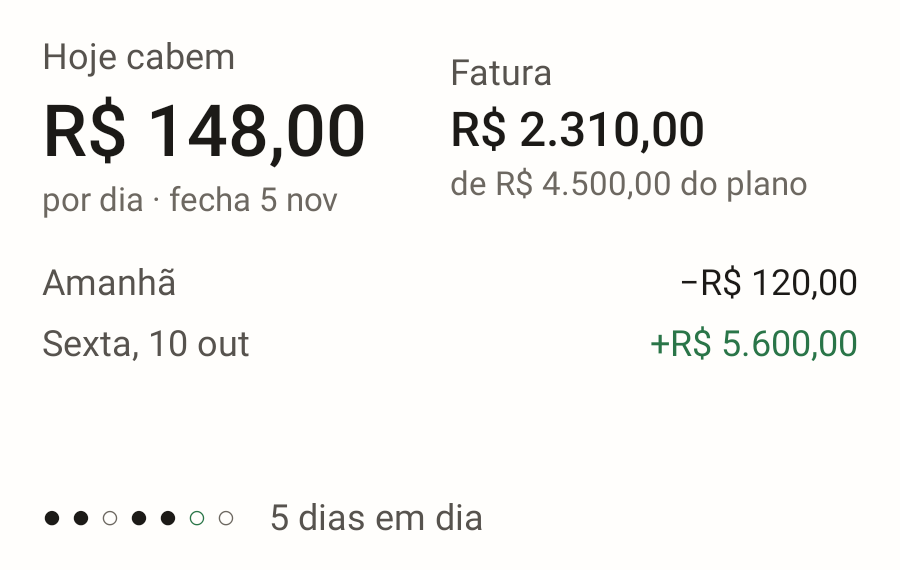
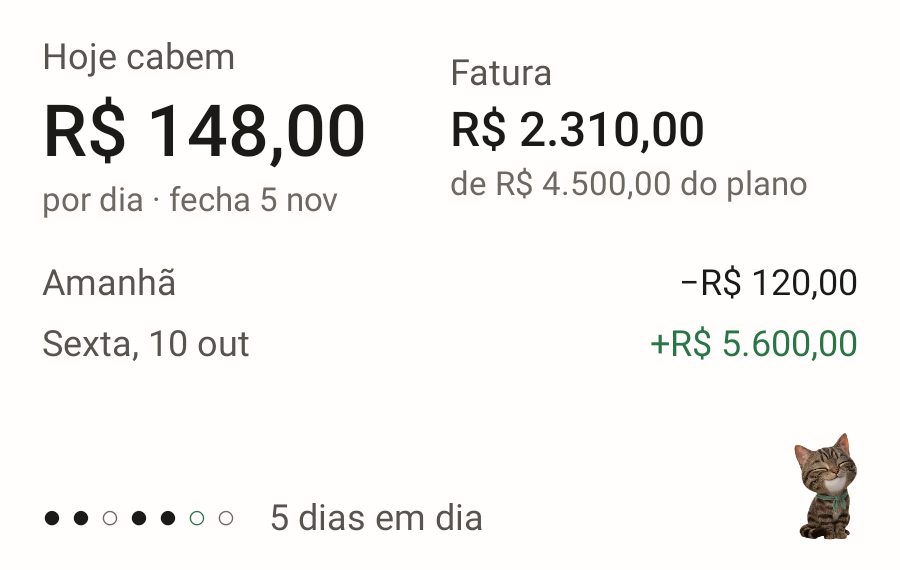
Põe o Neko no widget grande do Android, com a pose que acompanha o dia na planilha
No widget alto, ao lado da semana e da sequência, o Neko fica sentado enquanto o dia está em aberto
e satisfeito quando hoje já foi lançado; sem login, dorme. É o mesmo gesto da linha da sequência em
Hoje, levado para a tela inicial, onde o hábito é lembrado sem abrir o app. Android 0.26.0.

Claude-Session: https://claude.ai/code/session_01SwzAqfvDsayEzGoVq3fRTr

Changed region(s): [[0.8711, 0.7456, 0.9644, 0.9544]]

diff --git a/apps/android/app/src/main/kotlin/dev/johnlaff/neko/widget/TodayWidget.kt b/apps/android/app/src/main/kotlin/dev/johnlaff/neko/widget/TodayWidget.kt
@@ -7,6 +7,8 @@ import androidx.compose.ui.unit.dp
 import androidx.compose.ui.unit.sp
 import androidx.glance.GlanceId
 import androidx.glance.GlanceModifier
+import androidx.glance.Image
+import androidx.glance.ImageProvider
 import androidx.glance.action.actionStartActivity
 import androidx.glance.action.clickable
 import androidx.glance.appwidget.GlanceAppWidget
@@ -37,6 +39,7 @@ import dev.johnlaff.neko.data.TodayView
 import dev.johnlaff.neko.ui.DarkLedger
 import dev.johnlaff.neko.ui.Format
 import dev.johnlaff.neko.ui.LightLedger
+import dev.johnlaff.neko.ui.Pose
 
 /** One upcoming day on the tall widget: "Amanhã", "−R$ 1.900,00". */
 data class WidgetDay(val label: String, val net: String, val income: Boolean)
@@ -55,6 +58,8 @@ data class WidgetText(
     /** "12 dias em dia" and this week as seven marks, for the tall widget; null without a streak. */
     val streak: String? = null,
     val week: List<String> = emptyList(),
+    /** Neko on the tall widget: asleep until signed in, content once today is on the sheet. */
+    val pose: Pose = Pose.Sitting,
 )
 
 fun widgetText(v: TodayView?): WidgetText {
@@ -80,7 +85,15 @@ fun widgetText(v: TodayView?): WidgetText {
             billDetail,
             days,
         )
-    }.copy(streak = streak, week = week)
+    }.copy(
+        streak = streak,
+        week = week,
+        pose = when {
+            v == null -> Pose.Sleeping
+            h?.editedToday == true -> Pose.Content
+            else -> Pose.Sitting
+        },
+    )
 }
 
 /** Invented numbers for the picker, never the owner's: anyone can browse widgets on the phone. */
@@ -90,6 +103,7 @@ val PREVIEW = WidgetText(
     listOf(WidgetDay("Amanhã", "−R$ 120,00", false), WidgetDay("Sexta, 10 out", "+R$ 5.600,00", true)),
     "5 dias em dia",
     listOf("edited", "edited", "rest", "edited", "edited", "today", "future"),
+    Pose.Content,
 )
 
 private val SMALL = DpSize(110.dp, 50.dp)
@@ -155,26 +169,36 @@ class TodayWidget : GlanceAppWidget() {
                     }
                 }
             }
-            if (tall && t.streak != null) {
+            if (tall) {
                 Spacer(GlanceModifier.defaultWeight())
-                Row(GlanceModifier.fillMaxWidth(), verticalAlignment = Alignment.CenterVertically) {
-                    t.week.forEach { s ->
-                        // Filled when the sheet changed, hollow otherwise, ringed in jade for today.
-                        Text(
-                            if (s == "edited") "●" else "○",
-                            style = TextStyle(
-                                color = when (s) {
-                                    "edited" -> pair { it.text }
-                                    "today" -> pair { it.accent }
-                                    else -> pair { it.faint }
-                                },
-                                fontSize = 11.sp,
-                            ),
-                            modifier = GlanceModifier.padding(end = 3.dp),
-                        )
+                Row(GlanceModifier.fillMaxWidth(), verticalAlignment = Alignment.Bottom) {
+                    Row(GlanceModifier.defaultWeight(), verticalAlignment = Alignment.CenterVertically) {
+                        t.week.forEach { s ->
+                            // Filled when the sheet changed, hollow otherwise, ringed in jade for today.
+                            Text(
+                                if (s == "edited") "●" else "○",
+                                style = TextStyle(
+                                    color = when (s) {
+                                        "edited" -> pair { it.text }
+                                        "today" -> pair { it.accent }
+                                        else -> pair { it.faint }
+                                    },
+                                    fontSize = 11.sp,
+                                ),
+                                modifier = GlanceModifier.padding(end = 3.dp),
+                            )
+                        }
+                        if (t.streak != null) {
+                            Spacer(GlanceModifier.width(8.dp))
+                            Text(t.streak, style = TextStyle(color = pair { it.muted }, fontSize = 12.sp), maxLines = 1)
+                        }
                     }
-                    Spacer(GlanceModifier.width(8.dp))
-                    Text(t.streak, style = TextStyle(color = pair { it.muted }, fontSize = 12.sp), maxLines = 1)
+                    // Neko keeps the habit company, as on Hoje. Decorative: the words say the same.
+                    Image(
+                        ImageProvider(t.pose.res),
+                        contentDescription = null,
+                        modifier = GlanceModifier.height(36.dp).width((36 * t.pose.ratio).dp),
+                    )
                 }
             }
         }

diff --git a/apps/android/app/src/test/kotlin/dev/johnlaff/neko/TodayViewTest.kt b/apps/android/app/src/test/kotlin/dev/johnlaff/neko/TodayViewTest.kt
@@ -83,4 +83,10 @@ class TodayViewTest {
     @Test fun widgetAsksToSignInWithoutData() {
         assertEquals("Entrar", widgetText(null).figure)
     }
+
+    @Test fun widgetCatFollowsTheDay() {
+        assertEquals(dev.johnlaff.neko.ui.Pose.Sleeping, widgetText(null).pose)
+        assertEquals(dev.johnlaff.neko.ui.Pose.Sitting, widgetText(view.copy(habit = view.habit!!.copy(editedToday = false))).pose)
+        assertEquals(dev.johnlaff.neko.ui.Pose.Content, widgetText(view.copy(habit = view.habit!!.copy(editedToday = true))).pose)
+    }
 }
